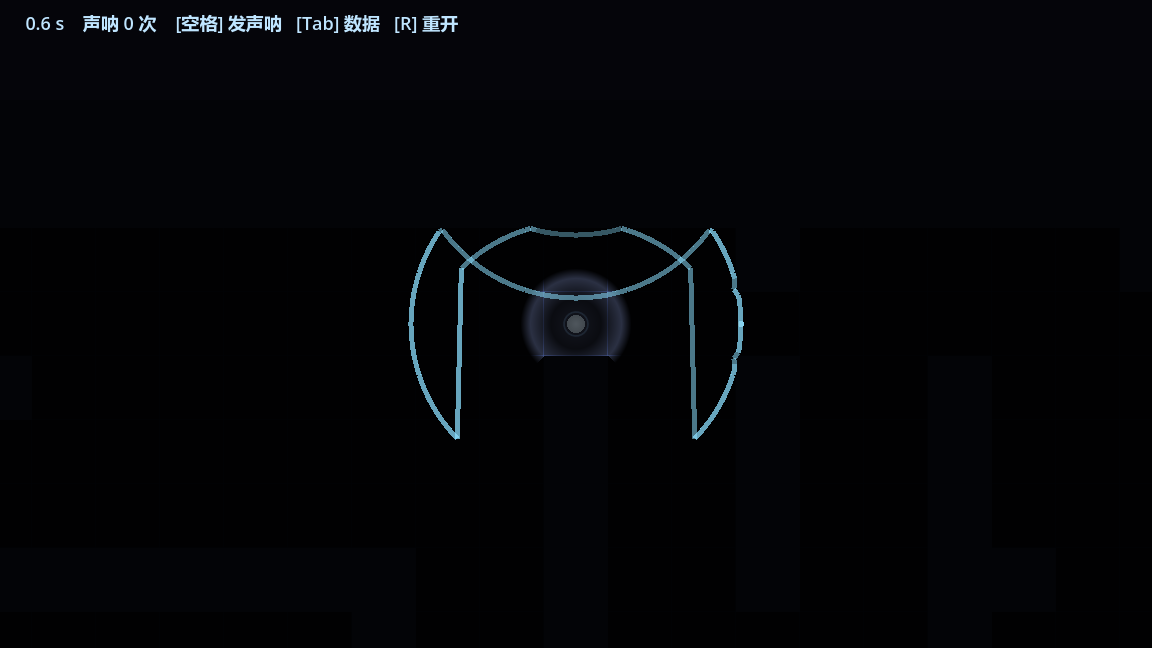
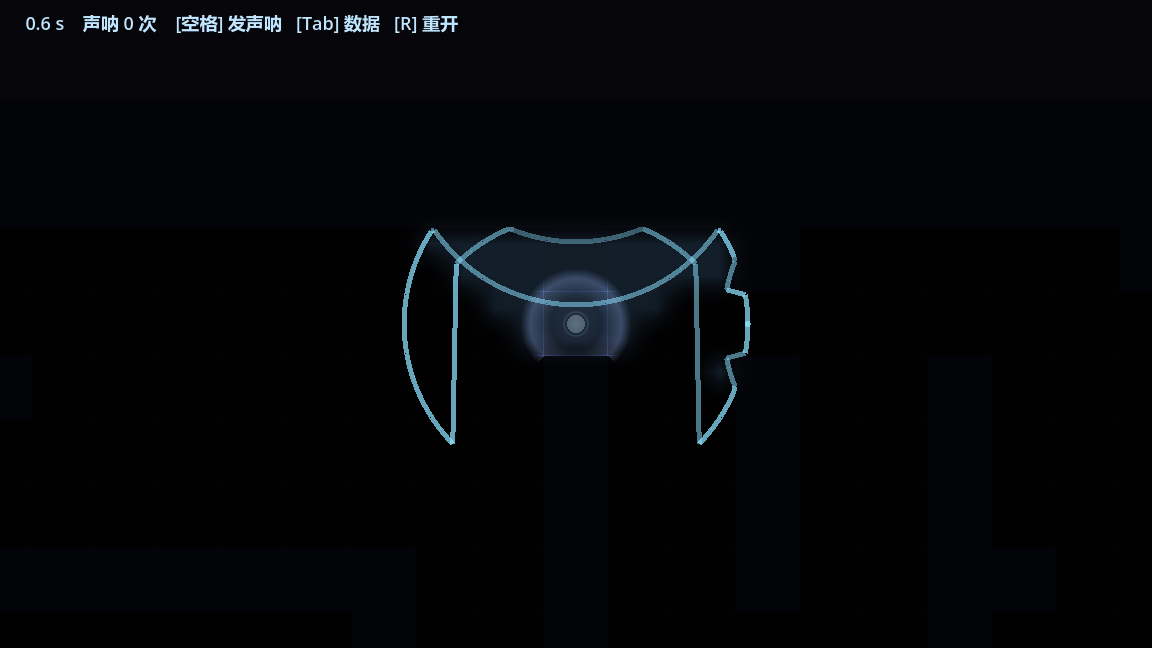
feat(sonar): 撞墙留淡色边界，6-7 秒退掉
- 新增边界记忆图层：射线打到的墙面按 32px 格戳进一张小图，只记前两跳
- 修复：衰减原来写在_圈还活着_的分支里，圈一结束就不衰减，边界会永远留着
- 颜色压到 0.26 亮度，避免整张图的墙都发光

Changed region(s): [[0.3438, 0.3395, 0.6562, 0.679]]

diff --git a/README.md b/README.md
@@ -208,6 +208,8 @@ Godot_v4.7.2-stable_win64_console.exe --path <本目录> --script res://tools/ca
 - 一次发声推一圈：420 px/s、1.6 s、最多 **5 次**反射，每反射一次亮度 ×0.72。
 - 每条射线带“剩余路程”推进，撞墙按法线反射、扣掉已走路程，220 条射线的末端连成波前 —— 所以在墙角会拐弯。
 - 没有任何振荡量参与显示：只画“当前半径”这一圈，亮度随半径变淡，不会一帧亮一帧暗。
+- **撞墙留痕**：射线打到的墙面会以淡蓝色记在一张小图上（只记前两跳），6–7 秒内慢慢退掉 ——
+  相当于“记住摸过的墙”。圈结束后衰减仍继续（ 里先衰减再判断是否还有圈）。
 - 波画在 `follow_viewport_enabled` 的 CanvasLayer 上：`CanvasModulate` 会把同一 canvas 乘到 0.015，
   直接画在关卡里等于没画。
 - `scripts/sonar.gd` 的圆形光环和圆弧已关闭（`RING_PEAK = 0`），只留 0.12 的余辉。
